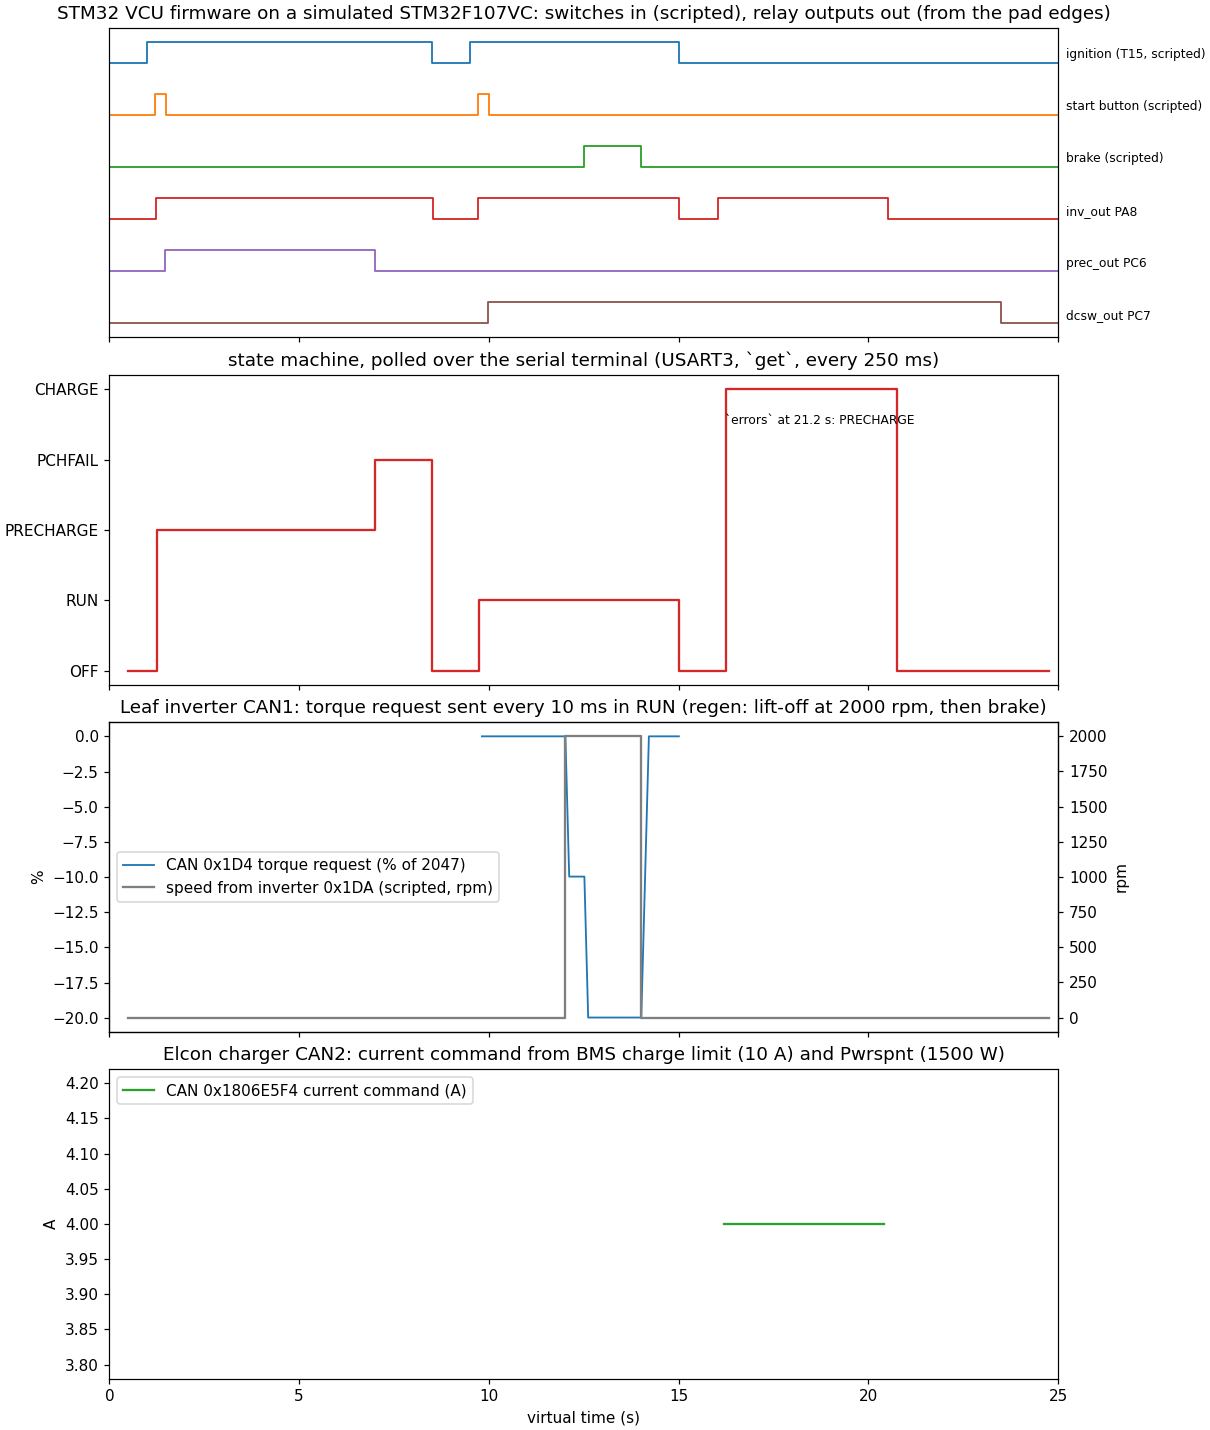
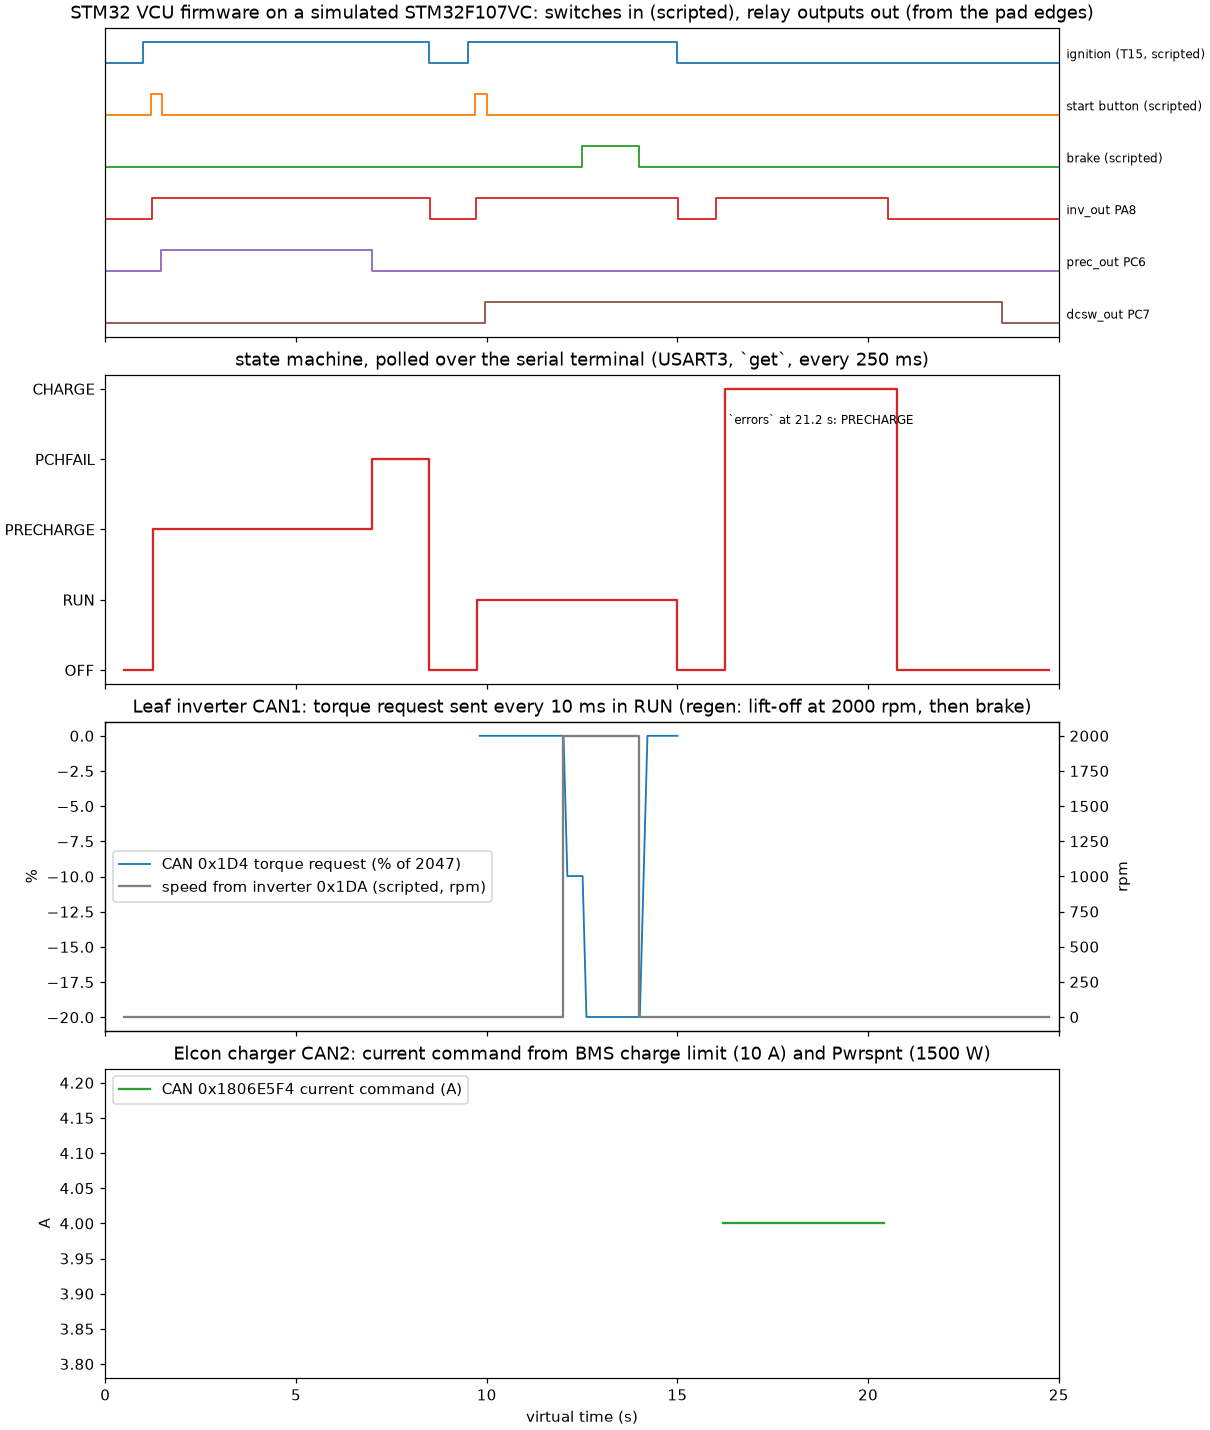
sim: runs on released sim 0.10.8, drop pre-release notes
Re-ran the unchanged demo on sim 0.10.8 (build 64f89c38): measured output identical to the earlier pre-release run.

diff --git a/README.md b/README.md
@@ -10,15 +10,14 @@ STM32F107VC (the chip this code is written for) with a Nissan Leaf inverter on C
 the key, start button and brake on pads, and a serial terminal on USART3. No board, no car. Everything is in [`sim/`](sim/).
 
 ```
-cd sim && SIM=/path/to/sim ./run.sh     # the plot needs python3 + matplotlib
+cd sim && ./run.sh     # released sim 0.10.8 or later; the plot needs python3 + matplotlib
 ```
 
-**This needs a pre-release `sim` until STM32F1 ships.** Released `sim` 0.10.4 does not run it (`machine 'vcu': build error: no cpu entry`).
-The numbers below come from a pyrite build (`sim 0.10.0`, commit `50d3404e`, the F1 model branch merged with the F1 die model), set with `SIM=`.
+Runs on released `sim` 0.10.8 (build 64f89c38); the numbers below are from that run and are identical to the earlier pre-release run.
 
 ![State machine, relays, Leaf and Elcon CAN](sim/vcu.png)
 
-**Measured, from a real run** ([`sim/run.log`](sim/run.log), [`sim/measured.txt`](sim/measured.txt); 25 s of virtual time in about 25 s of wall clock):
+**Measured, from a real run** ([`sim/run.log`](sim/run.log), [`sim/measured.txt`](sim/measured.txt); 25 s of virtual time in about 30 s of wall clock):
 
 - Boots and takes terminal commands over USART3 (`set` answers `Set OK`; `get` polls parse into columns; `errors` lists the fault).
 - **Precharge failure:** ignition and start button at 1.0 / 1.2 s with no DC voltage reported: inverter power (PA8) at 1.215 s, precharge relay (PC6) at 1.455 s,
@@ -42,7 +41,7 @@ The numbers below come from a pyrite build (`sim 0.10.0`, commit `50d3404e`, the
 
 **What does not work / is not shown**
 
-- **No throttle.** The F103/F1 ADC has no analog input in this sim build ([pyrite#3810](https://github.com/simantic-dev/pyrite/issues/3810)), so the pedal,
+- **No throttle.** This demo does not stimulate the ADC (pyrite#3810, F1 ADC analog input, is fixed in 0.10.8 but not used here), so the pedal,
   temperatures and 12 V all read 0. `potmin` is set to 50 over the terminal so the start condition (`pot` < `potmin`) holds; positive torque, throttle ramp and limiting are not exercised.
 - CAN3 (MCP25625 on SPI2), the LIN bus (USART1), the Toyota inverter link (USART2) and the TIM1/TIM3 PWM outputs have no peer: the firmware runs through their init, nothing is checked.
 - Only the Leaf inverter, SimpBMS, Elcon charger and E46 vehicle paths are run; the other inverters, vehicles, chargers and CAN-mapped I/O are untried. Flash parameter save is untried.
